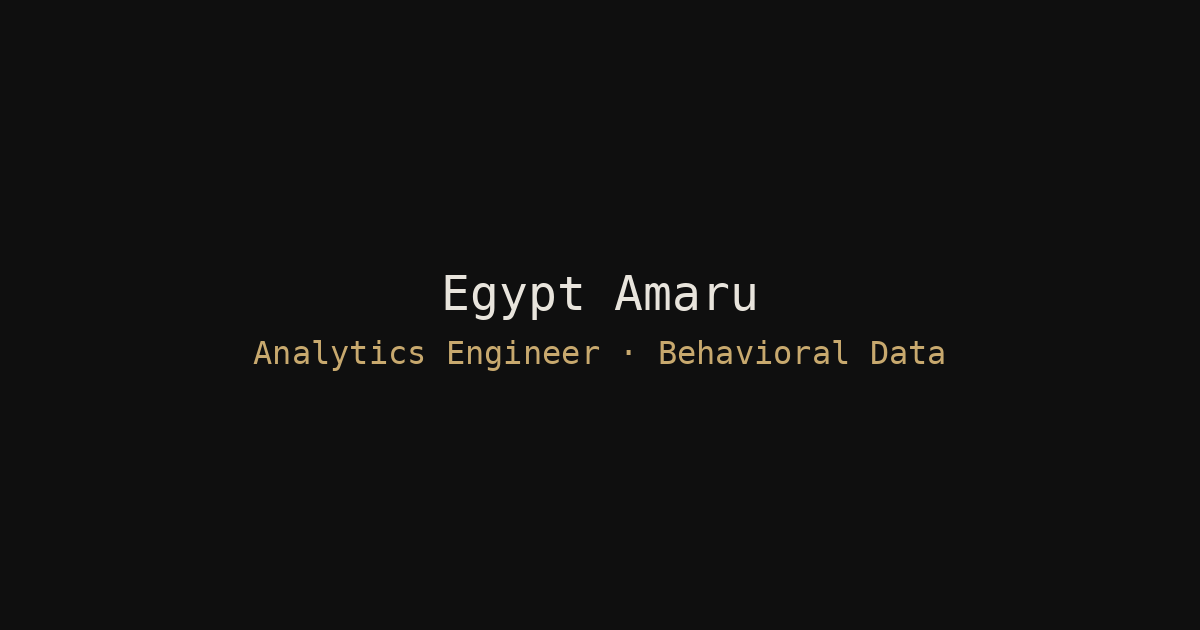
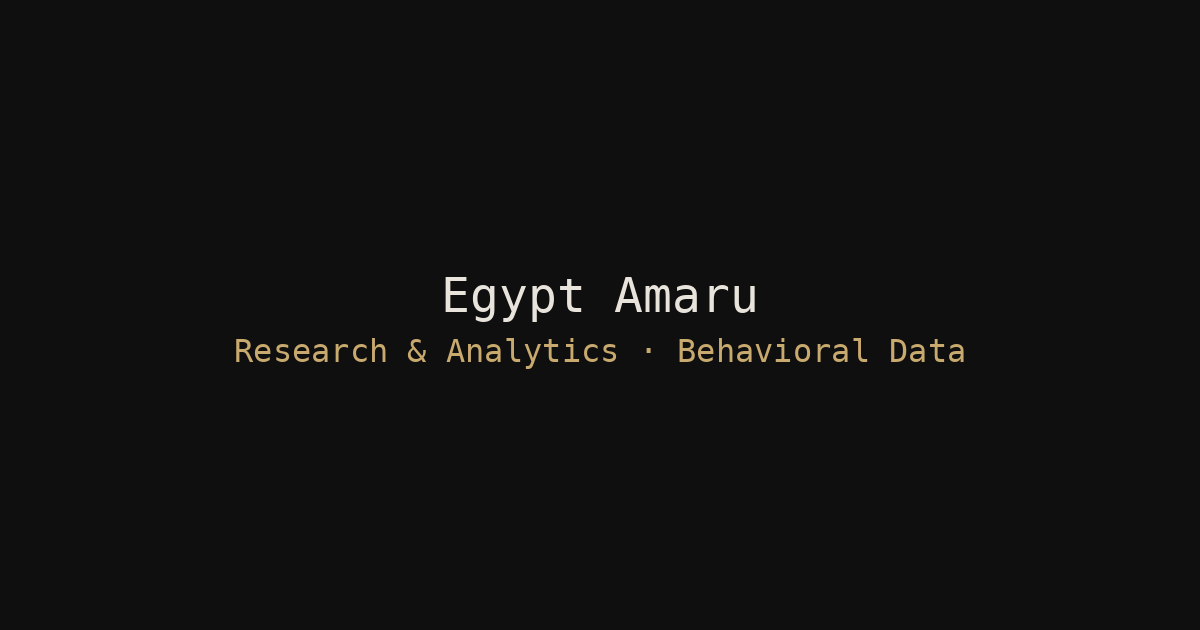
Update default view to Research & Analytics framing

Changed region(s): [[0.185, 0.5429, 0.8017, 0.6032], [0.37, 0.4222, 0.4625, 0.5127], [0.4933, 0.4524, 0.6167, 0.5127]]

diff --git a/index.html b/index.html
@@ -3,9 +3,9 @@
 <head>
 <meta charset="UTF-8">
 <meta name="viewport" content="width=device-width, initial-scale=1.0">
-<title>Egypt Amaru — Analytics Engineer, Behavioral Data</title>
+<title>Egypt Amaru — Research & Analytics · Behavioral Data</title>
 <meta property="og:title" content="Egypt Amaru">
-<meta property="og:description" content="Analytics Engineer with 7 years building data systems at Google and Meta.">
+<meta property="og:description" content="Research and analytics work at Google and Meta over 7 years.">
 <meta property="og:image" content="https://egyptamaru.github.io/og-portfolio.png">
 <meta property="og:url" content="https://egyptamaru.github.io/">
 <meta property="og:type" content="website">
@@ -28,7 +28,7 @@
   <div class="intro">
     <div class="intro-text">
       <h1 class="intro-name">Egypt Amaru</h1>
-      <div class="intro-role">Analytics Engineer, Behavioral Data</div>
+      <div class="intro-role">Research & Analytics · Behavioral Data</div>
     </div>
     <div class="intro-photo">
       <img src="photo.jpg" alt="Egypt Amaru">
